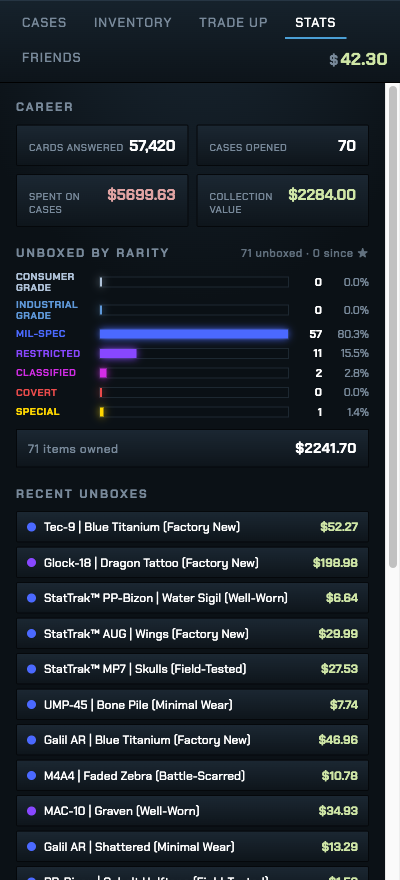
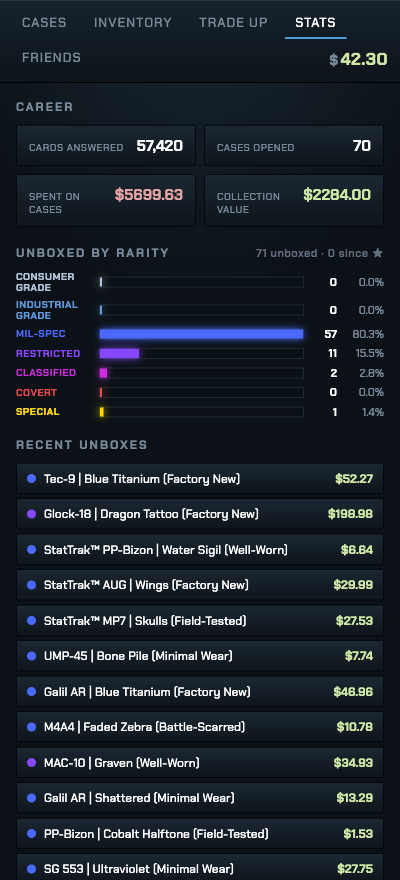
Drop the redundant "items owned" line from Stats
The bottom collection-summary row duplicated the Collection value tile (and
showed a slightly different inventory-only total), so remove it and its CSS.

diff --git a/cs2_cases/web/styles.css b/cs2_cases/web/styles.css
@@ -371,14 +371,6 @@ body.overlay-mode .content { display: none; }
 .rbar-pct { flex: 0 0 auto; min-width: 40px; text-align: right; color: var(--muted);
   font-variant-numeric: tabular-nums; }
 
-/* collection summary line */
-.collline {
-  display: flex; justify-content: space-between; align-items: baseline;
-  margin-top: 10px; padding: 9px 11px; font-size: 12px; color: var(--muted);
-  background: linear-gradient(180deg, var(--cell-top), var(--cell-bot));
-  border: 1px solid var(--edge); letter-spacing: .5px;
-}
-.collline .cv { color: #fff; font-weight: 700; font-size: 14px; font-variant-numeric: tabular-nums; }
 
 /* settings toggles */
 .setting {

diff --git a/cs2_cases/web/app.js b/cs2_cases/web/app.js
@@ -357,8 +357,6 @@
       + '<div class="section-title" style="margin-top:18px">Unboxed by Rarity'
       + '<span class="note">' + totalPulls.toLocaleString() + " unboxed · " + drought + " since ★</span></div>"
       + '<div class="rbar">' + rarityHtml + "</div>"
-      + '<div class="collline"><span>' + (s.inventory_count || 0) + " items owned</span>"
-      + '<span class="cv">$' + invVal.toFixed(2) + "</span></div>"
       + '<div class="section-title" style="margin-top:18px">Recent Unboxes</div>'
       + '<div class="histlist">' + rows + "</div>"
       + '<div class="section-title" style="margin-top:18px">Settings</div>'